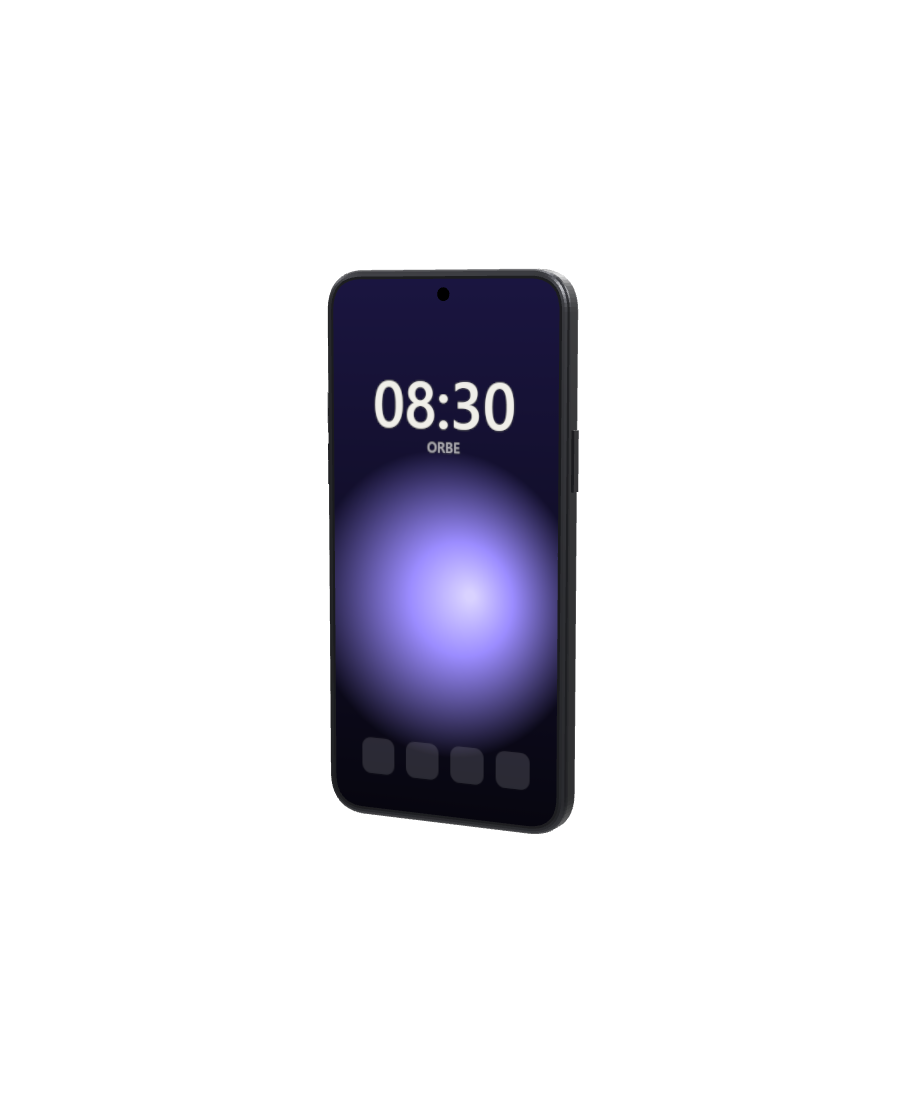
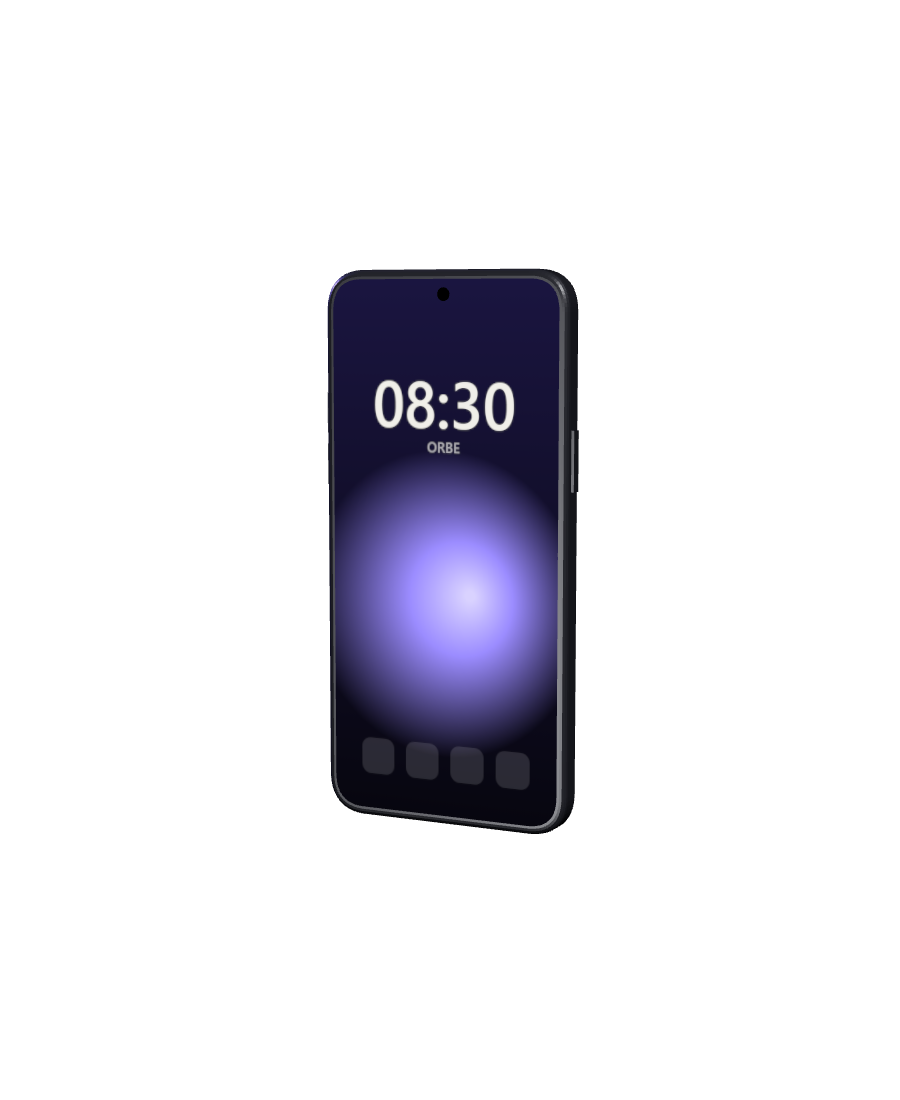
perf: acessibilidade, Open Graph e montagem do 3D sem travar
Axe sem violações sérias em PT/EN, com e sem 3D; Open Graph, canonical e
theme-color por idioma. O ambiente PMREM travava a página por ~640 ms
compilando shaders; agora luzes diretas compilam em paralelo
(compileAsync) e a montagem cede frames entre etapas. Maior tarefa longa
no desktop: 141 ms; nenhuma durante o scroll. npm run measure registra
LCP, CLS, etapas e FPS com a GPU da máquina.

diff --git a/src/three/stage.ts b/src/three/stage.ts
@@ -1,15 +1,15 @@
 import {
   ACESFilmicToneMapping,
+  DirectionalLight,
+  HemisphereLight,
   type Material,
   Mesh,
   PerspectiveCamera,
-  PMREMGenerator,
   Scene,
   SRGBColorSpace,
   Texture,
   WebGLRenderer,
 } from "three";
-import { RoomEnvironment } from "three/addons/environments/RoomEnvironment.js";
 
 export interface Stage {
   scene: Scene;
@@ -20,6 +20,13 @@ export interface Stage {
   onRender(callback: () => void): void;
   /** Render síncrono (usado para capturar os pôsteres). */
   renderNow(): void;
+  /**
+   * Luzes da cena. Luzes diretas em vez de ambiente PMREM: o PMREM compilava shaders de forma
+   * síncrona e travava a página por ~600 ms; estas compilam em paralelo com o resto no `compile()`.
+   */
+  buildLighting(): void;
+  /** Compila os shaders da cena em paralelo, sem travar a página (KHR_parallel_shader_compile). */
+  compile(): Promise<void>;
   /** Libera tudo e devolve o que ainda restou na GPU (deve ser zero). */
   dispose(): { geometries: number; textures: number };
 }
@@ -33,13 +40,18 @@ export function createStage(canvas: HTMLCanvasElement): Stage {
   renderer.toneMapping = ACESFilmicToneMapping;
 
   const scene = new Scene();
-  const pmrem = new PMREMGenerator(renderer);
-  const room = new RoomEnvironment();
-  // O ambiente é um render target: precisa ser liberado inteiro, não só a textura.
-  const envTarget = pmrem.fromScene(room, 0.04);
-  scene.environment = envTarget.texture;
-  room.dispose();
-  pmrem.dispose();
+  let lit = false;
+  const buildLighting = () => {
+    if (lit) return;
+    lit = true;
+    const key = new DirectionalLight("#ffffff", 3.2);
+    key.position.set(3, 4, 6);
+    const rim = new DirectionalLight("#9b8cff", 3); // contraluz violeta da marca
+    rim.position.set(-5, 3, -4);
+    const fill = new DirectionalLight("#ffffff", 1.2);
+    fill.position.set(-4, -2, 5);
+    scene.add(new HemisphereLight("#e6e4ff", "#2a2a33", 2.2), key, rim, fill);
+  };
 
   const camera = new PerspectiveCamera(30, 1, 0.1, 100);
   camera.position.set(0, 0, 9);
@@ -79,6 +91,10 @@ export function createStage(canvas: HTMLCanvasElement): Stage {
       cancelAnimationFrame(frame);
       render();
     },
+    buildLighting,
+    compile: async () => {
+      await renderer.compileAsync(scene, camera);
+    },
     dispose() {
       cancelAnimationFrame(frame);
       observer.disconnect();
@@ -95,7 +111,6 @@ export function createStage(canvas: HTMLCanvasElement): Stage {
           material.dispose();
         }
       });
-      envTarget.dispose();
       renderer.dispose();
       const { geometries, textures } = renderer.info.memory;
       return { geometries, textures };

diff --git a/tests/e2e/a11y.spec.ts b/tests/e2e/a11y.spec.ts
@@ -1,0 +1,39 @@
+import AxeBuilder from "@axe-core/playwright";
+import { test, expect, type Page } from "@playwright/test";
+
+const seriousViolations = async (page: Page) => {
+  const results = await new AxeBuilder({ page }).analyze();
+  return results.violations
+    .filter((v) => v.impact === "serious" || v.impact === "critical")
+    .map((v) => `${v.id}: ${v.nodes.length} nó(s) — ${v.help}`);
+};
+
+for (const path of ["./", "en/"]) {
+  test(`axe sem violação séria ou crítica em ${path} com 3D`, async ({ page }) => {
+    await page.goto(path);
+    await expect(page.locator("html")).toHaveAttribute("data-stage", "ready");
+
+    expect(await seriousViolations(page)).toEqual([]);
+  });
+
+  test.describe("com movimento reduzido", () => {
+    test.use({ reducedMotion: "reduce" });
+
+    test(`axe sem violação séria ou crítica em ${path} com pôsteres`, async ({ page }) => {
+      await page.goto(path);
+
+      expect(await seriousViolations(page)).toEqual([]);
+    });
+  });
+}
+
+test("cada idioma tem título, descrição e Open Graph próprios", async ({ page }) => {
+  await page.goto("./");
+  await expect(page.locator('meta[property="og:title"]')).toHaveAttribute("content", /Orbe One/);
+  await expect(page.locator('meta[property="og:locale"]')).toHaveAttribute("content", "pt_BR");
+  await expect(page.locator('meta[property="og:image"]')).toHaveAttribute("content", /^https?:\/\/.+\.(png|jpg|webp)$/);
+
+  await page.goto("en/");
+  await expect(page.locator('meta[property="og:locale"]')).toHaveAttribute("content", "en_US");
+  await expect(page.locator('meta[name="description"]')).toHaveAttribute("content", /fictional/);
+});

diff --git a/src/three/mount.ts b/src/three/mount.ts
@@ -33,15 +33,30 @@ declare global {
   }
 }
 
-/** Ponto de entrada do 3D, carregado por import dinâmico depois do load. */
-export function mountPhoneStage(canvas: HTMLCanvasElement): PhoneStage {
+const nextFrame = () => new Promise<void>((resolve) => requestAnimationFrame(() => resolve()));
+
+/**
+ * Ponto de entrada do 3D, carregado por import dinâmico depois do load. A montagem cede um frame
+ * entre as etapas pesadas e compila os shaders em paralelo, para não travar a página de uma vez.
+ */
+export async function mountPhoneStage(canvas: HTMLCanvasElement): Promise<PhoneStage> {
+  // Marcas de performance por etapa (visíveis no painel Performance do DevTools e no `npm run measure`).
+  performance.mark("orbe:start");
   const stage = createStage(canvas);
+  performance.mark("orbe:renderer");
+  await nextFrame();
+  stage.buildLighting();
+  performance.mark("orbe:lighting");
+  await nextFrame();
   const phone = createPhone();
 
   // O "rig" recebe pose e enquadramento; o aparelho guarda só a própria escala.
   const rig = new Group();
   rig.add(phone.group);
   stage.scene.add(rig);
+  performance.mark("orbe:model");
+  await stage.compile();
+  performance.mark("orbe:compiled");
 
   // Modo pôster (?poster): sem scroll; o script pede cada cena e lê o canvas como PNG transparente.
   if (new URLSearchParams(location.search).has("poster")) {
@@ -125,5 +140,6 @@ export function mountPhoneStage(canvas: HTMLCanvasElement): PhoneStage {
 
   window.__orbe = { dispose: () => stage.dispose() };
   document.documentElement.dataset.stage = "ready";
+  performance.mark("orbe:ready");
   return { stage, phone };
 }

diff --git a/src/three/phone.ts b/src/three/phone.ts
@@ -89,7 +89,7 @@ export function createPhone(): Phone {
 
   const frameMaterial = new MeshPhysicalMaterial({
     color: new Color("#3a3b40"),
-    metalness: 0.85,
+    metalness: 0.45, // sem reflexo de ambiente, metal alto ficaria preto: parte da cor vem da luz difusa
     roughness: 0.32,
     clearcoat: 0.6,
     clearcoatRoughness: 0.35,

diff --git a/src/scripts/main.ts b/src/scripts/main.ts
@@ -38,7 +38,7 @@ async function start(): Promise<void> {
   if (!canvas) return;
 
   const { mountPhoneStage } = await import("../three/mount");
-  mountPhoneStage(canvas);
+  await mountPhoneStage(canvas);
 }
 
 if (document.readyState === "complete") void start();

diff --git a/tasks/todo.md b/tasks/todo.md
@@ -140,9 +140,21 @@ As poses de "Design" e "Câmera" passam a mostrar esses detalhes.
 **Descrição:** Roda o axe e corrige o que aparecer. Adiciona `title`, `description` e Open Graph por idioma. Mede Lighthouse mobile, trace de performance no desktop e tamanho do bundle, e corrige até bater as metas.
 
 **Aceite:**
-- [ ] O axe não encontra violação séria ou crítica nas duas páginas
-- [ ] Lighthouse mobile: Performance ≥ 85, Acessibilidade/Boas práticas/SEO ≥ 95; LCP < 2,5 s; CLS < 0,1
-- [ ] JS total ≤ 250 KB gzip; trace do desktop sem tarefas longas (> 50 ms) durante o scroll
+- [x] O axe não encontra violação séria ou crítica nas duas páginas
+- [ ] Lighthouse mobile: Performance ≥ 85, Acessibilidade/Boas práticas/SEO ≥ 95; LCP < 2,5 s; CLS < 0,1 → LCP e CLS medidos e dentro da meta; a nota do Lighthouse depende de rodar o `lighthouse` (pacote fora da stack, aguarda aprovação)
+- [x] JS total ≤ 250 KB gzip; trace do desktop sem tarefas longas (> 50 ms) durante o scroll
+
+> Feita em 2026-11-16. 78 testes (axe em PT/EN, com 3D e com pôsteres; Open Graph e canonical por idioma).
+> Medições (`npm run measure`, GPU Radeon RX 590 via ANGLE/D3D11):
+>
+> | Perfil | LCP | CLS | 3D pronto | Maior tarefa longa até o 3D | Durante o scroll | FPS |
+> |---|---|---|---|---|---|---|
+> | Desktop | 244–328 ms | 0,000 | 0,74 s | 141 ms | nenhuma | 57 |
+> | Celular (CPU 4×, 4G lento) | 836 ms | 0,039 | 2,4 s | 200 ms | nenhuma | 60 |
+>
+> JS total: 193,4 KB gzip (inicial 1,3 KB).
+> Achado: o ambiente PMREM (`RoomEnvironment`) compilava shaders de forma síncrona e travava a página por ~640 ms com cache frio. Trocado por luzes diretas compiladas em paralelo (`renderer.compileAsync`) e montagem em etapas com `performance.mark`; a estrutura passou de `metalness` 0,85 para 0,45 para não ficar preta sem reflexo. Pôsteres regenerados.
+> Nota: o Astro 7 só permite um `astro preview` por projeto; feche o preview do `npm run measure` antes de rodar os testes.
 
 **Dependências:** V7 · **Tamanho:** M
 

diff --git a/tasks/plan.md b/tasks/plan.md
@@ -51,7 +51,7 @@ A ordem segue o risco: primeiro o esqueleto com o texto das cenas, depois o palc
 - [ ] Todas as cenas funcionam; revisão visual com você
 
 - [x] V7: Pôsteres e caminhos sem WebGL, sem JS e com movimento reduzido
-- [ ] V8: Acessibilidade, SEO e performance (axe, Lighthouse, trace, tamanho do bundle)
+- [x] V8: Acessibilidade, SEO e performance (axe, Lighthouse, trace, tamanho do bundle) — falta só a nota do Lighthouse
 
 ### Checkpoint: Completo
 
